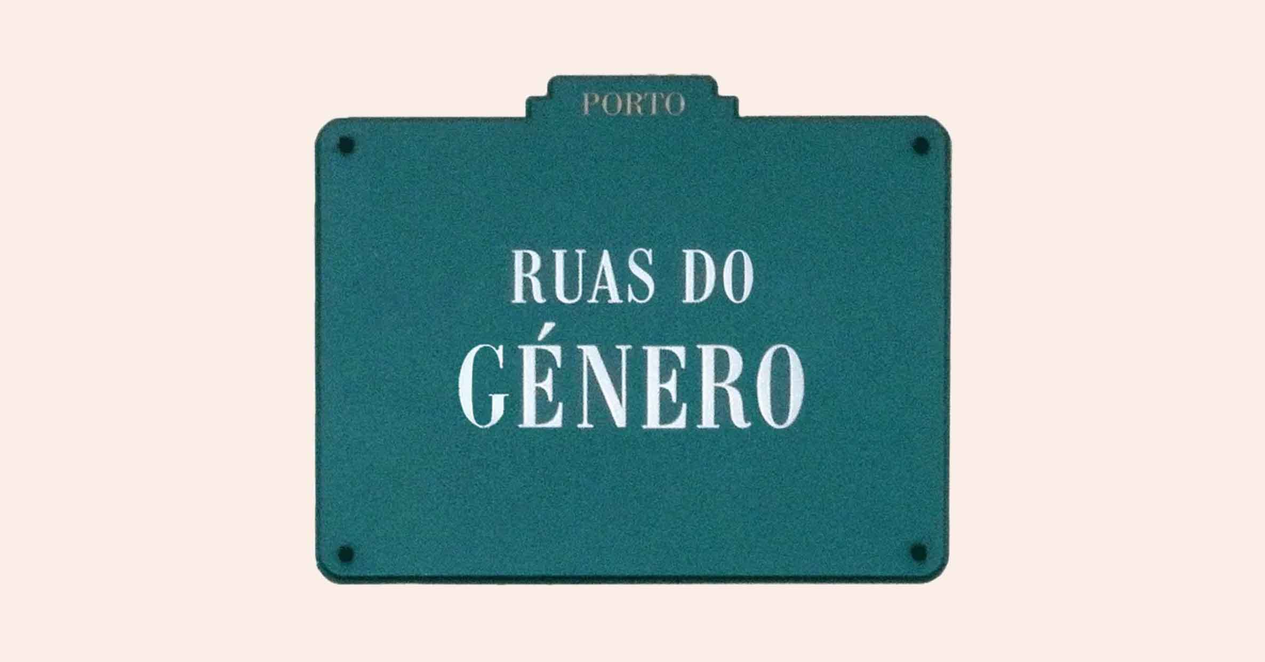
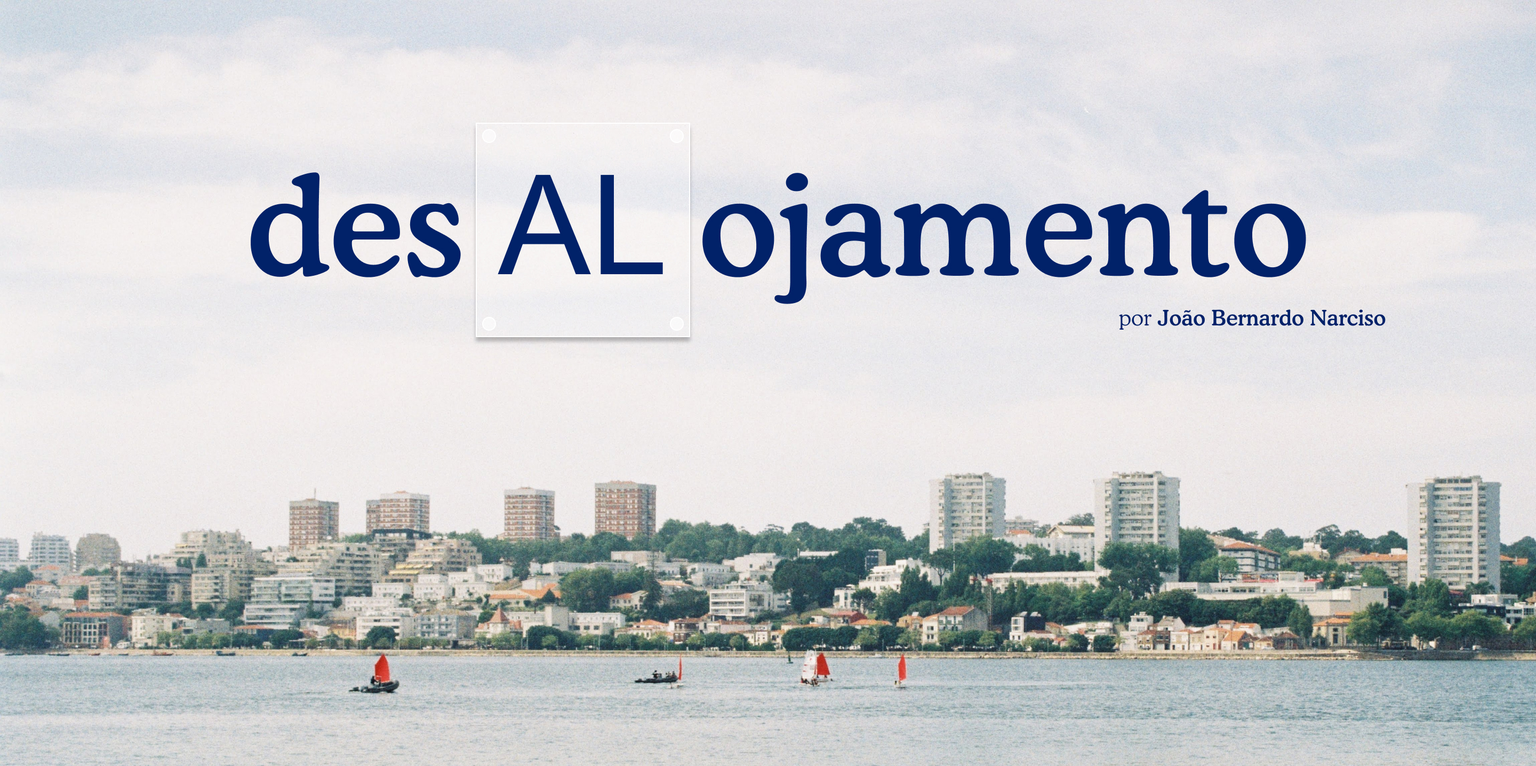
thumb

diff --git a/web/components/map.tsx b/web/components/map.tsx
@@ -685,7 +685,14 @@ const Map = ({ language, city, regulationRef }: Props) => {
                 __html: getTranslationString('actionIntro', language, city),
               }}
             />
+            <div className="text-box-note text-box-note-megahosts">
+              <div className="text-box-note-text">
+                {getTranslationString('actionIntro-note', language, city)}
+              </div>
+              <div className="toggle-icon toggle-icon--hotel"></div>
+            </div>
           </div>
+
           <div ref={actionFreguesia} className="text-box glassy">
             <h2>{getTranslationString('actionFreguesia-title', language, city)}</h2>
             <div

diff --git a/web/components/meta.tsx b/web/components/meta.tsx
@@ -13,11 +13,10 @@ const Meta = () => {
       <meta property="og:title" content="Desalojamento Local" />
       <meta
         property="og:description"
-        content="Um ensaio visual sobre o Alojamento Local no Porto e em Lisboa"
+        content="Alguns dados e mapas sobre o Alojamento Local no Porto e em Lisboa"
       />
       <meta property="og:image" content="/thumb.jpg" />
     </Head>
   )
 }
 export default Meta
-
